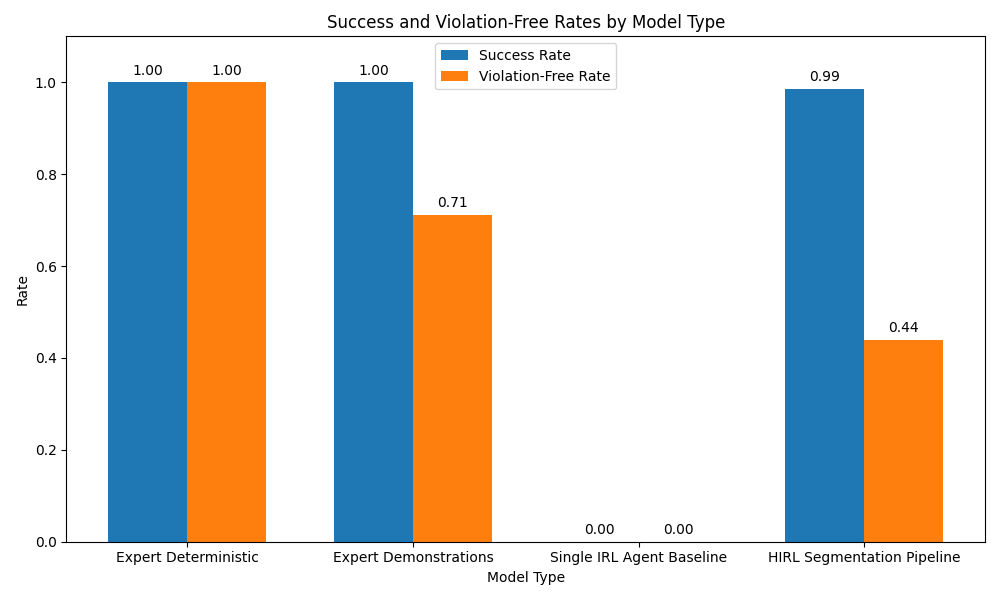
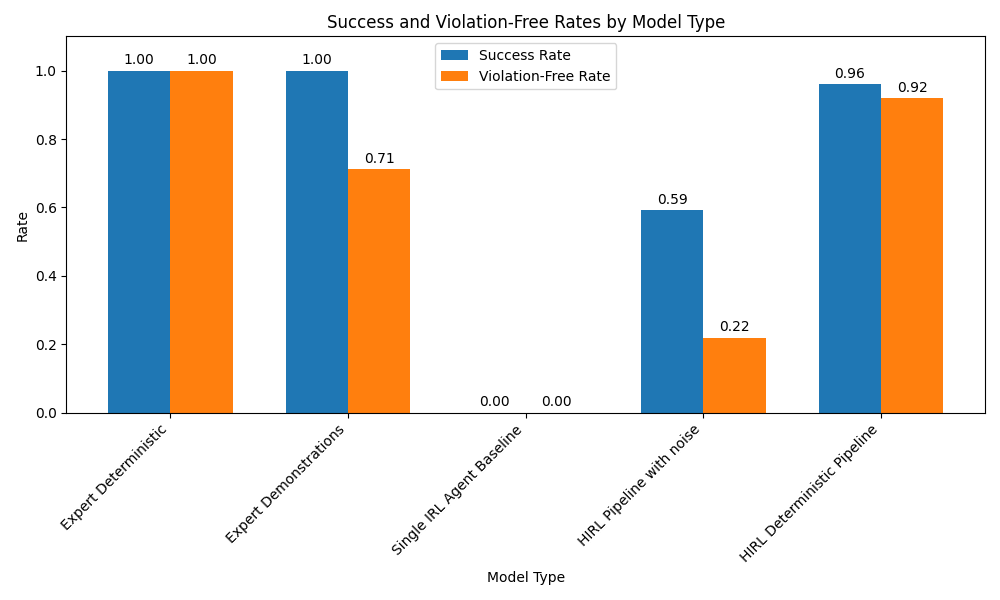
chore: update plots

diff --git a/experiment_plots.py b/experiment_plots.py
@@ -59,7 +59,7 @@ def makeSuccessMetricsPlot(aggregated_results, modelNames):
     ax.set_title('Success and Violation-Free Rates by Model Type')
     ax.set_xticks(x)
     ax.set_ylim(0, 1.1)
-    ax.set_xticklabels(modelTypes)
+    ax.set_xticklabels(modelTypes, rotation=45, ha='right')
     ax.legend(loc="upper center",)
 
     for bars in [successBars, violationFreeBars]:
@@ -90,7 +90,7 @@ def makeViolationMetricsPlot(aggregated_results, modelNames):
     ax.set_xlabel('Model Type')
     ax.set_title('Violation Metrics by Model Type')
     ax.set_xticks(x)
-    ax.set_xticklabels(modelTypes)
+    ax.set_xticklabels(modelTypes, rotation=45, ha='right')
     ax.legend(loc="upper center",)
 
     for bars, values in [(avgBars, avgViolations), (medianBars, medianViolations), (maxBarsClipped, maxViolations)]:
@@ -186,9 +186,11 @@ def makeViolationDetailPlot(aggregated_results, modelNames):
     # plot 4: violation details per model
     baselineDetails = aggregated_results['baseline_metrics']['total_violation_breakdown']
     irlDetails = aggregated_results['irl_metrics']['total_violation_breakdown']
+    detIRLDetails = aggregated_results['deterministic_irl_metrics']['total_violation_breakdown']
 
     baselineViolationsByType = getViolationBuckets(baselineDetails)
     irlViolationsByType = getViolationBuckets(irlDetails)
+    detIRLViolationsByType = getViolationBuckets(detIRLDetails)
 
     # Get violation type labels
     violationTypes = [
@@ -205,13 +207,15 @@ def makeViolationDetailPlot(aggregated_results, modelNames):
     # Get counts for each violation type
     baselineCounts = [baselineViolationsByType[vt] for vt in ViolationType if vt != ViolationType.NONE]
     irlCounts = [irlViolationsByType[vt] for vt in ViolationType if vt != ViolationType.NONE]
+    detIRLCounts = [detIRLViolationsByType[vt] for vt in ViolationType if vt != ViolationType.NONE]
 
-    barWidth = 0.35
+    barWidth = 0.25
     x = np.arange(len(violationTypes))
 
     fig, ax = plt.subplots(figsize=(12, 6))
-    baselineBars = ax.bar(x - barWidth/2, baselineCounts, width=barWidth, label=modelNames['baseline_metrics'])
-    irlBars = ax.bar(x + barWidth/2, irlCounts, width=barWidth, label=modelNames['irl_metrics'])
+    baselineBars = ax.bar(x - barWidth, baselineCounts, width=barWidth, label=modelNames['baseline_metrics'])
+    irlBars = ax.bar(x, irlCounts, width=barWidth, label=modelNames['irl_metrics'])
+    detIRLBars = ax.bar(x + barWidth, detIRLCounts, width=barWidth, label=modelNames['deterministic_irl_metrics'])
 
     ax.set_ylabel('Total Violations')
     ax.set_xlabel('Violation Type')
@@ -221,7 +225,7 @@ def makeViolationDetailPlot(aggregated_results, modelNames):
     ax.legend(loc="upper right")
 
     # Add value labels on bars
-    for bars in [baselineBars, irlBars]:
+    for bars in [baselineBars, irlBars, detIRLBars]:
         for bar in bars:
             height = bar.get_height()
             if height > 0:
@@ -230,6 +234,57 @@ def makeViolationDetailPlot(aggregated_results, modelNames):
     plt.tight_layout()
     plt.savefig("presentation-plots/violation_details.png")
     plt.close()
+
+def makePartialSuccessPlot(aggregated_results, modelNames):
+    irl_summary = aggregated_results['irl_metrics']['error_analysis_summary']['summary']
+    
+    total_failed_to_pay = irl_summary['total_failed_to_pay']
+    total_failed_to_get_all_items = irl_summary['total_failed_to_get_all_items']
+    
+    avg_items_when_failed_to_pay = irl_summary['avg_items_in_basket_when_failed_to_pay']
+    avg_missing_items = irl_summary['avg_missing_items_when_failed_to_get_all_items']
+    
+    fig, (ax1, ax2) = plt.subplots(1, 2, figsize=(14, 6))
+    
+    categories1 = ['Failed to\nPay', 'Failed to Get\nAll Items']
+    counts = [total_failed_to_pay, total_failed_to_get_all_items]
+    x1 = np.arange(len(categories1))
+    
+    bars1 = ax1.bar(x1, counts, width=0.6, color=['#ff7f0e', '#2ca02c'])
+    ax1.set_ylabel('Number of Runs')
+    ax1.set_xlabel('Failure Type')
+    ax1.set_title('Partial Success: Failure Counts')
+    ax1.set_xticks(x1)
+    ax1.set_xticklabels(categories1)
+    
+    for bar in bars1:
+        height = bar.get_height()
+        if height > 0:
+            ax1.text(bar.get_x() + bar.get_width()/2, height + 0.5, f"{int(height)}", 
+                    ha='center', va='bottom', fontsize=10)
+    
+    categories2 = ['Avg Items in Basket\n(When Failed to Pay)', 'Avg Missing Items\n(When Failed to Get All)']
+    averages = [avg_items_when_failed_to_pay, avg_missing_items]
+    x2 = np.arange(len(categories2))
+    
+    bars2 = ax2.bar(x2, averages, width=0.6, color=['#ff7f0e', '#2ca02c'])
+    ax2.set_ylabel('Average Count')
+    ax2.set_xlabel('Metric Type')
+    ax2.set_ylim(0, 2.0)
+    ax2.set_title('Partial Success: Item Details')
+    ax2.set_xticks(x2)
+    ax2.set_xticklabels(categories2)
+    
+    for bar in bars2:
+        height = bar.get_height()
+        if height > 0:
+            ax2.text(bar.get_x() + bar.get_width()/2, height + 0.05, f"{height:.2f}", 
+                    ha='center', va='bottom', fontsize=10)
+    
+    plt.tight_layout()
+    plt.savefig("presentation-plots/partial_success.png")
+    plt.close()
+
 
 if __name__ == "__main__":
     # load trajectories
@@ -248,13 +303,15 @@ if __name__ == "__main__":
         "expert_metrics": "Expert Deterministic",
         "demo_metrics": "Expert Demonstrations",
         "baseline_metrics": "Single IRL Agent Baseline",
-        "irl_metrics": "HIRL Segmentation Pipeline",
+        "irl_metrics": "HIRL Pipeline with noise",
+        "deterministic_irl_metrics": "HIRL Deterministic Pipeline",
     }
 
     makeSuccessMetricsPlot(aggregated_results, modelNames)
     makeViolationMetricsPlot(aggregated_results, modelNames)
     makeEfficiencyPlot(aggregated_results, modelNames)
     makeViolationDetailPlot(aggregated_results, modelNames)
+    makePartialSuccessPlot(aggregated_results, modelNames)
 
     
 
